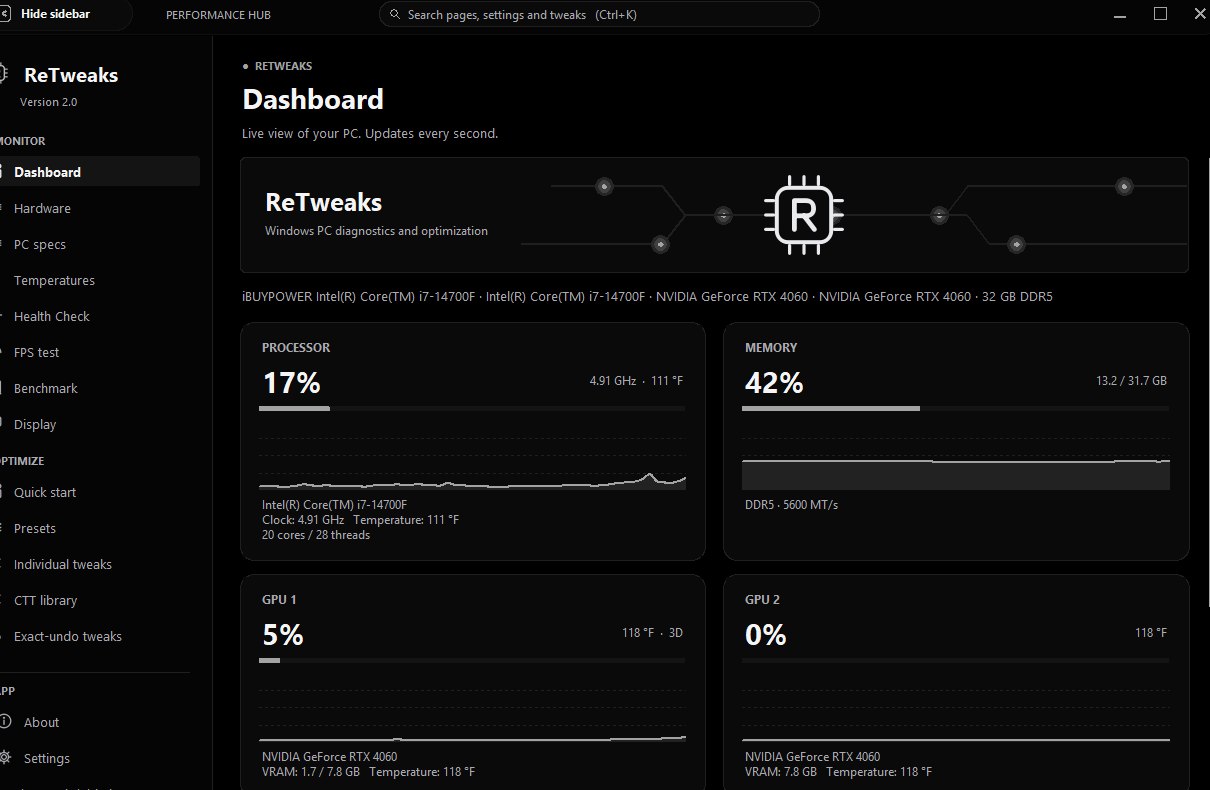
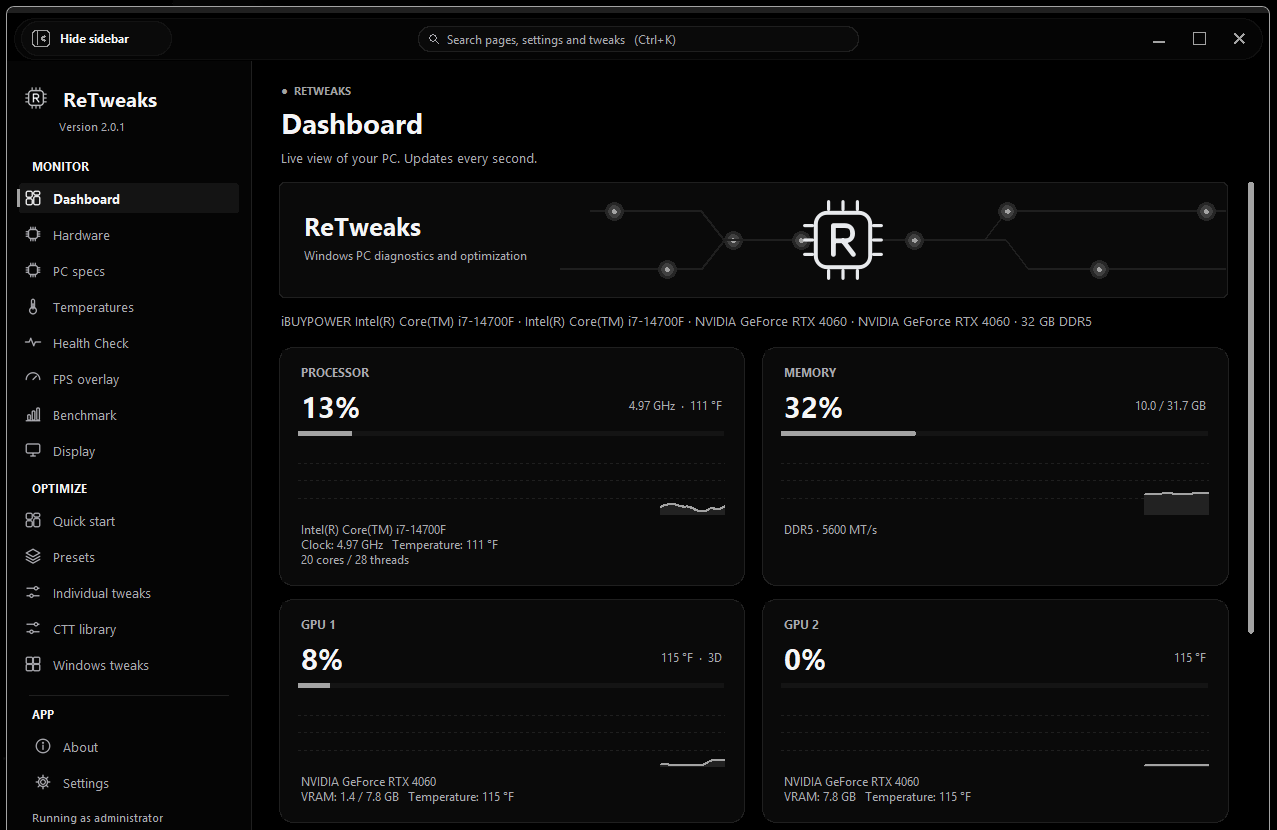
RETWEAKS

diff --git a/docs/index.html b/docs/index.html
@@ -116,6 +116,7 @@ section{padding-block:72px 0}
 .shot .bar{display:flex;align-items:center;gap:8px;padding:10px 14px;border-bottom:1px solid var(--line);font-family:var(--display);font-size:.8rem;color:var(--muted);letter-spacing:.06em;text-transform:uppercase}
 .shot .bar i{width:8px;height:8px;border-radius:50%;background:var(--line-2);display:inline-block}
 .shot .img{position:relative;overflow:hidden;background:#000}
+.shot .img::after{content:"";position:absolute;left:0;right:0;bottom:0;height:70px;background:linear-gradient(transparent,var(--bg-2));pointer-events:none}
 .shot img{display:block;width:100%;height:auto;transition:transform .5s cubic-bezier(.2,.8,.2,1)}
 .shot:hover img{transform:scale(1.015)}
 .shot .scanline{position:absolute;left:0;right:0;top:0;height:1px;background:var(--accent);opacity:.25;box-shadow:0 0 12px var(--accent);animation:shotscan 6s linear infinite;pointer-events:none}
@@ -367,7 +368,7 @@ footer a{color:var(--muted)}
   </div>
   <div class="shot reveal">
     <div class="bar"><i></i><i></i><i></i> RETWEAKS · Dashboard · screenshot</div>
-    <div class="img"><img src="dashboard-v2.png" alt="RETWEAKS Dashboard: sidebar with Monitor, Optimize and App sections; cards for Processor, Memory and two GPU entries showing live load, clock, temperature and VRAM" width="1277" height="864" loading="lazy"><div class="scanline" aria-hidden="true"></div></div>
+    <div class="img"><img src="dashboard-v2.png?v=2" alt="RETWEAKS Dashboard: sidebar with Monitor, Optimize and App sections; cards for Processor, Memory and two GPU entries showing live load, clock, temperature and VRAM" width="1277" height="830" loading="lazy"><div class="scanline" aria-hidden="true"></div></div>
     <div class="cap"><b>Live view of your PC, updated every second.</b> Processor load, clock and temperature; memory in use; per-GPU load, VRAM and temperature, each with a history graph.</div>
   </div>
   <div class="calls reveal">
